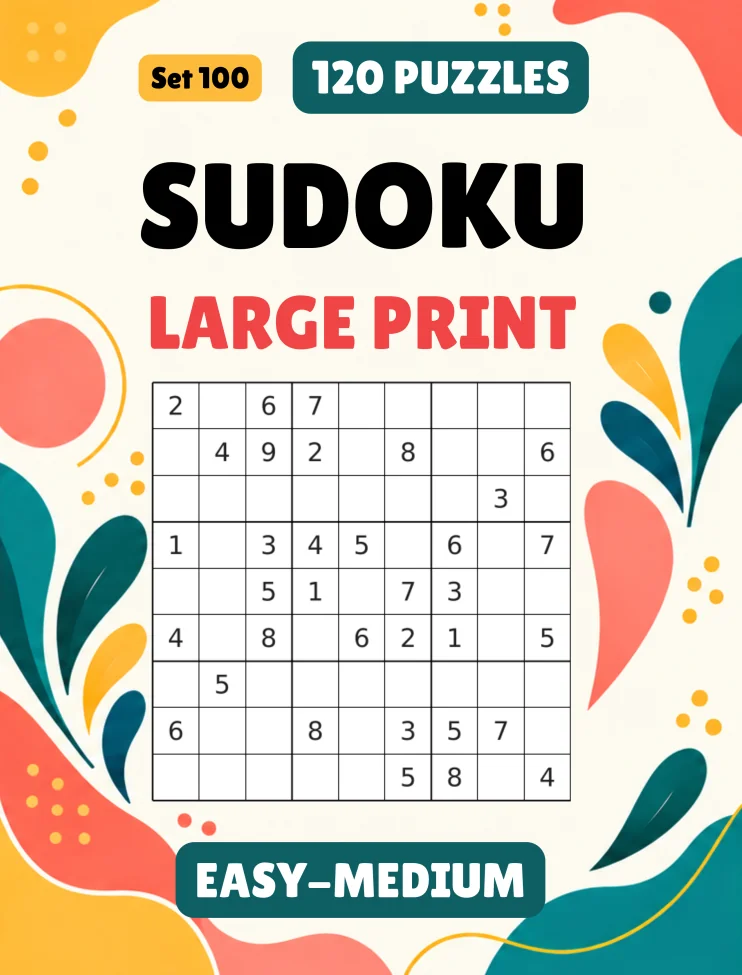
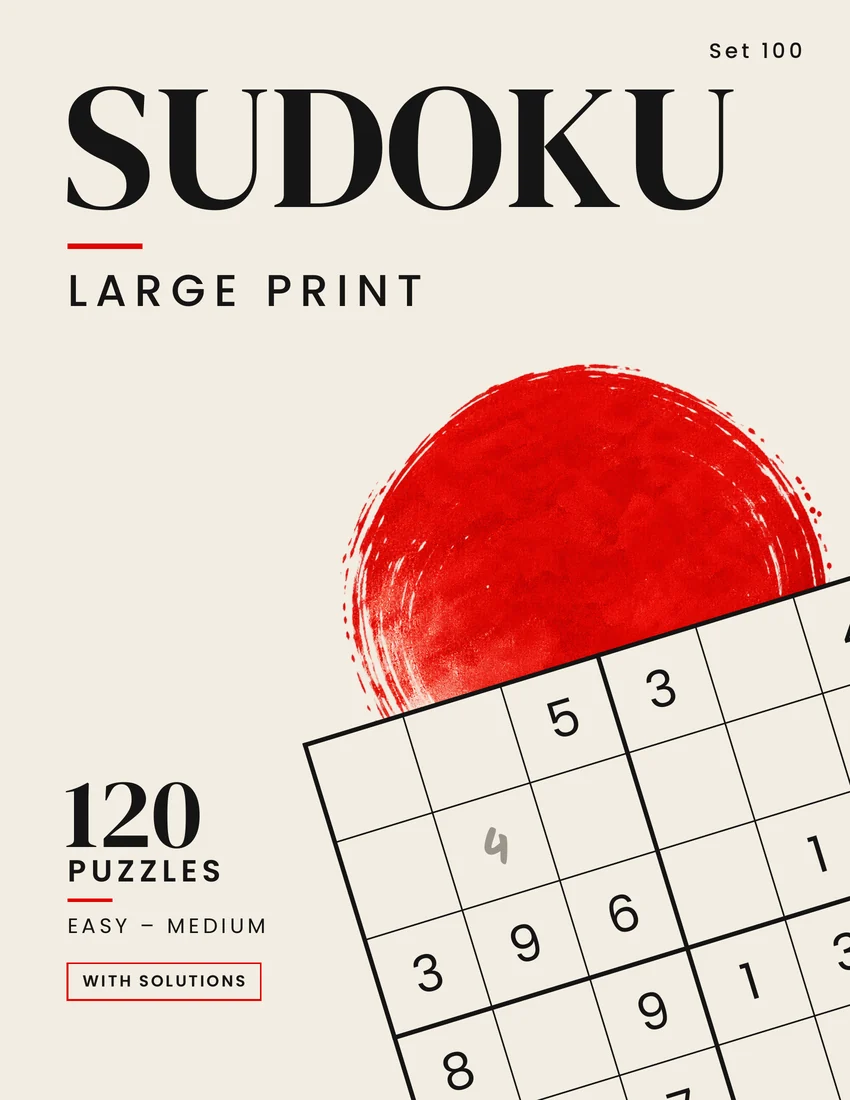
Large Print Sudoku EN: nowe okladki Set 100-102, Set 101 i 102 w katalogu, linki a.co

diff --git a/data/books.ts b/data/books.ts
@@ -408,7 +408,7 @@ export const books: Book[] = [
       'Complete solutions at the back of the book',
     ],
     coverImage: '/covers/large-print-sudoku-100.webp',
-    amazonUrl: 'https://www.amazon.com/dp/8398299304',
+    amazonUrl: 'https://a.co/d/0ckW3d2Q',
     featured: true,
     formatInches: '8.5 × 11 in',
     pageCount: 96,
@@ -418,6 +418,62 @@ export const books: Book[] = [
       title: 'Large Print Sudoku – 120 Easy and Medium Puzzles for Seniors',
       description:
         '120 Sudoku puzzles in a really large font, easy to medium. Two puzzles per page, clear grids, a beginner’s introduction and full solutions. A gift for Grandma or Grandpa.',
+    },
+  },
+  {
+    slug: 'large-print-sudoku-101',
+    title: 'Large Print Sudoku',
+    subtitle: '120 puzzles, hard and very hard',
+    ageRange: 'Dorośli',
+    category: 'sudoku',
+    audience: 'duzy-druk',
+    lang: 'en',
+    description:
+      '120 challenging Sudoku puzzles printed in a really large font. Two puzzles per page, clear grids, and plenty of space for notes. This book is for those who have outgrown easy grids and want a real challenge for the mind — without squinting at tiny print. The puzzles are arranged in two levels, hard and then very hard, and the introduction explains the advanced methods you will need along the way: pairs, X-Wing, Swordfish and XY-Wing.',
+    features: [
+      '120 unique Sudoku puzzles (hard and very hard difficulty)',
+      'Large print and spacious grids — two puzzles per page',
+      'An introduction to advanced methods: pairs, X-Wing, Swordfish, XY-Wing',
+      'Complete solutions at the back of the book',
+    ],
+    coverImage: '/covers/large-print-sudoku-101.webp',
+    amazonUrl: 'https://a.co/d/0ffwaVcr',
+    featured: true,
+    formatInches: '8.5 × 11 in',
+    pageCount: 100,
+    isbn: '978-83-982993-4-3',
+    seo: {
+      title: 'Large Print Sudoku – 120 Hard and Very Hard Puzzles',
+      description:
+        '120 hard and very hard Sudoku puzzles in a really large font. Two puzzles per page, an introduction to advanced methods (X-Wing, Swordfish, XY-Wing) and full solutions.',
+    },
+  },
+  {
+    slug: 'large-print-sudoku-102',
+    title: 'Large Print Sudoku',
+    subtitle: '150 puzzles for beginners, warm-up and easy',
+    ageRange: 'Dorośli',
+    category: 'sudoku',
+    audience: 'duzy-druk',
+    lang: 'en',
+    description:
+      '150 Sudoku puzzles for beginners, printed in a really large font. Two puzzles per page, clear grids, and plenty of space for notes. A gentle start: first a warm-up, where careful looking is enough, then the easy level. The step-by-step introduction shows two simple methods and what to do when you get stuck — a good first Sudoku book, and a calm daily habit for the mind.',
+    features: [
+      '150 unique Sudoku puzzles (warm-up and easy difficulty)',
+      'Large print and spacious grids — two puzzles per page',
+      'A step-by-step guide for beginners',
+      'Complete solutions at the back of the book',
+    ],
+    coverImage: '/covers/large-print-sudoku-102.webp',
+    amazonUrl: 'https://a.co/d/085EeTeZ',
+    featured: true,
+    formatInches: '8.5 × 11 in',
+    pageCount: 122,
+    isbn: '978-83-982993-6-7',
+    seo: {
+      title: 'Large Print Sudoku for Beginners – 150 Warm-up and Easy Puzzles',
+      description:
+        '150 easy Sudoku puzzles for beginners in a really large font. Two puzzles per page, a step-by-step guide and full solutions. A calm first Sudoku book.',
     },
   },
 ];

diff --git a/app/en/page.tsx b/app/en/page.tsx
@@ -13,16 +13,17 @@ export const metadata: Metadata = {
   },
 };
 
-// Jedyny angielski tytuł idzie na przód, resztę uzupełnia przekrój polskich
-// i niemieckich (karty mają znacznik języka, strona książki — adnotację).
+// Trzy angielskie tytuły (Large Print Sudoku, Set 100–102) zajmują widoczne
+// miejsca wachlarza, resztę uzupełnia przekrój polskich i niemieckich (karty
+// mają znacznik języka, strona książki — adnotację).
 // Kolejność w wachlarzu: pierwsza z przodu, druga po prawej, ostatnia po lewej.
 const HERO_SLUGS = [
   'large-print-sudoku-100',
+  'large-print-sudoku-101',
   'sudoku-300-zagadek-200',
   'meine-ersten-wortsuchratsel-stufe-1',
   'znajdz-slowko-poziom-latwy',
-  'meine-ersten-wortsuchratsel-stufe-2',
-  'zdobywca-szczytow',
+  'large-print-sudoku-102',
 ];
 
 // Układ i teksty strony głównej: components/HomePage.tsx (wspólne dla PL/DE/EN).
